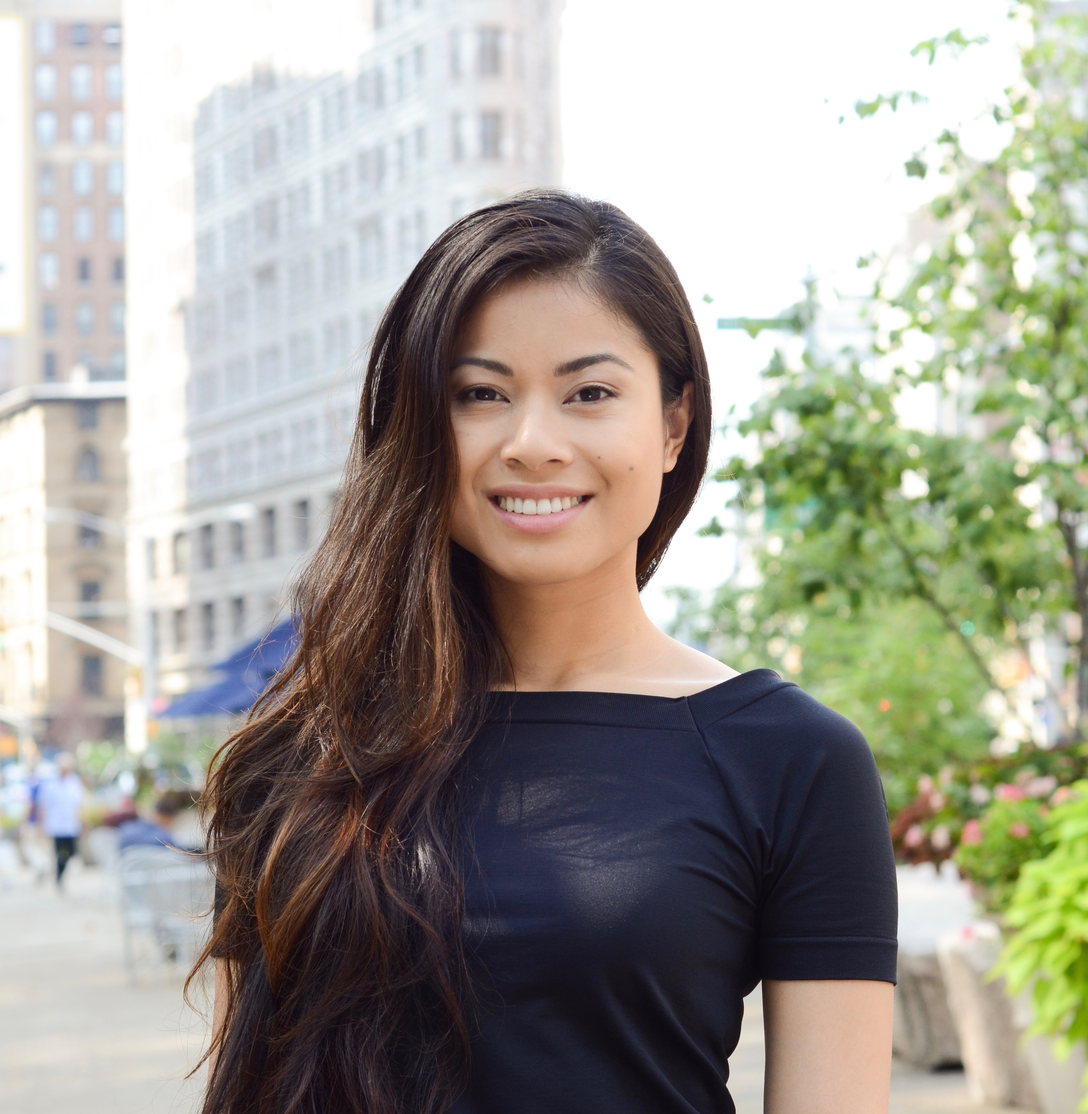
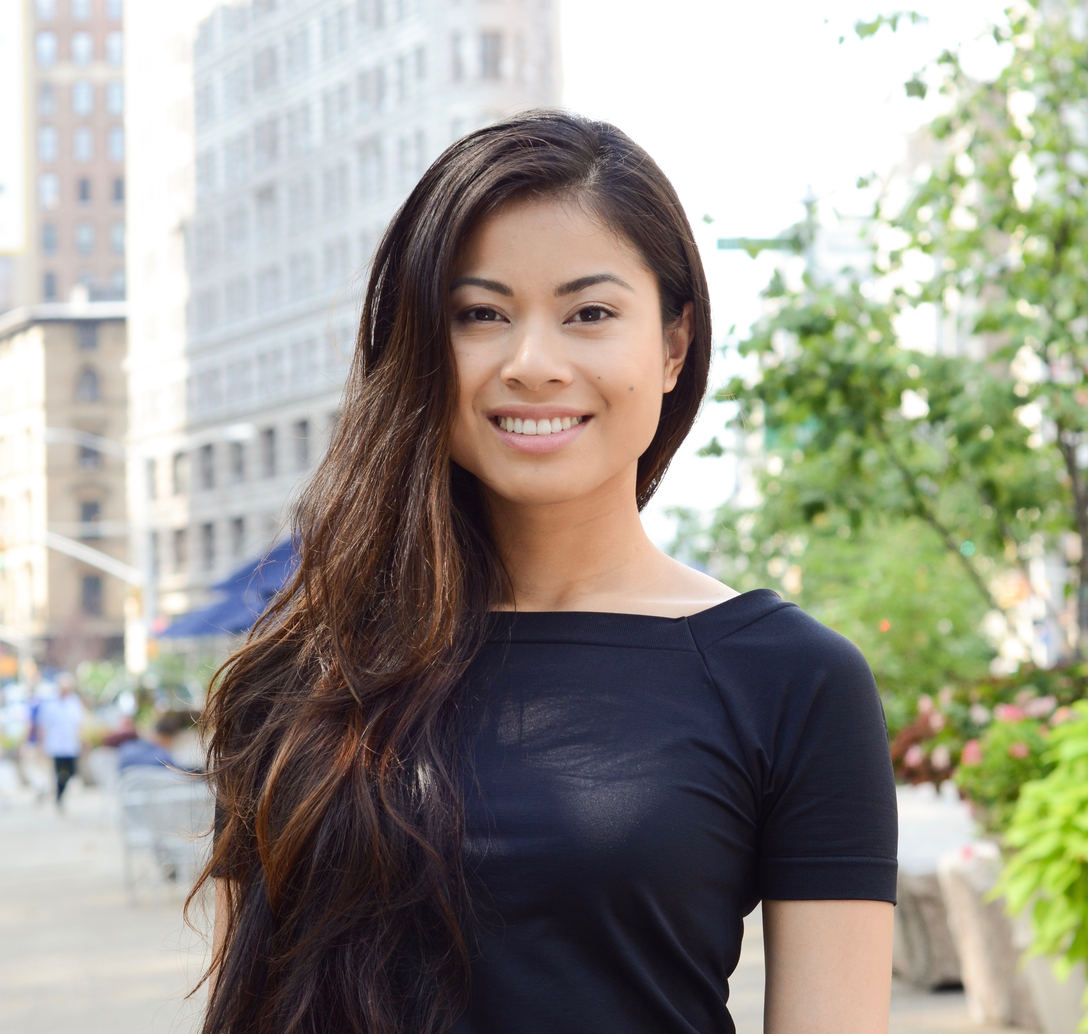
[style] resize portrait and zenmo images

diff --git a/index.html b/index.html
@@ -85,7 +85,7 @@
 								<p>A showcase of some of my projects.</p>
 							</header>
 							<ul class="features">
-								<li class="image"><img src="images/Zenmo-2.png" alt="" />
+								<li class="image"><img src="images/Zenmo-1-copy.jpg" alt="" />
 									<h3>Zenmo</h3>
 								</li>
 								<li class="icon fa-laptop">
